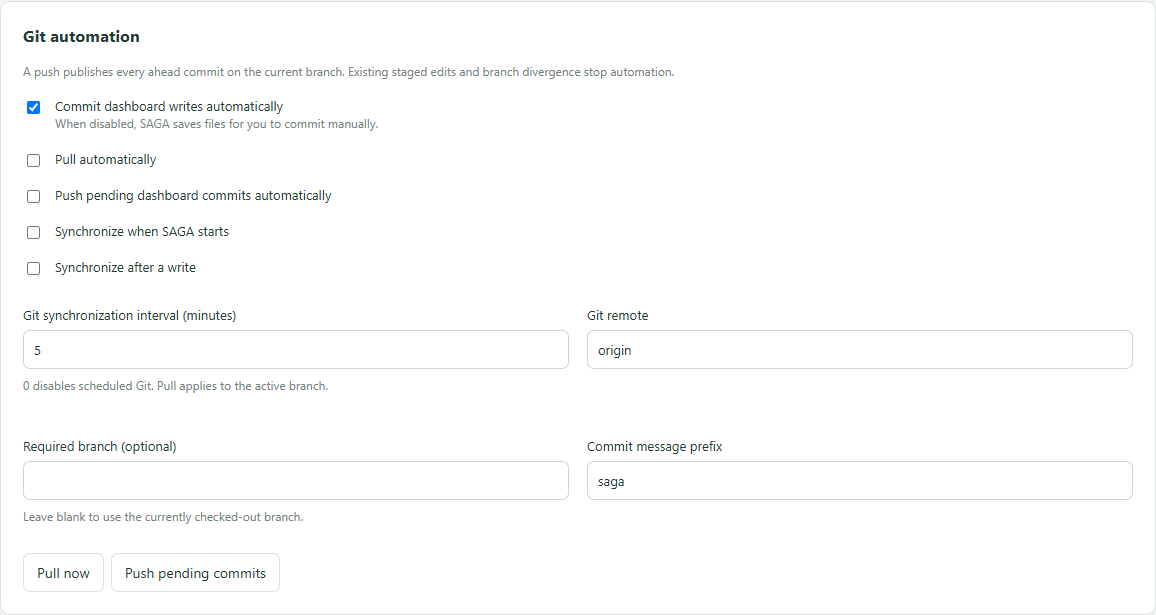
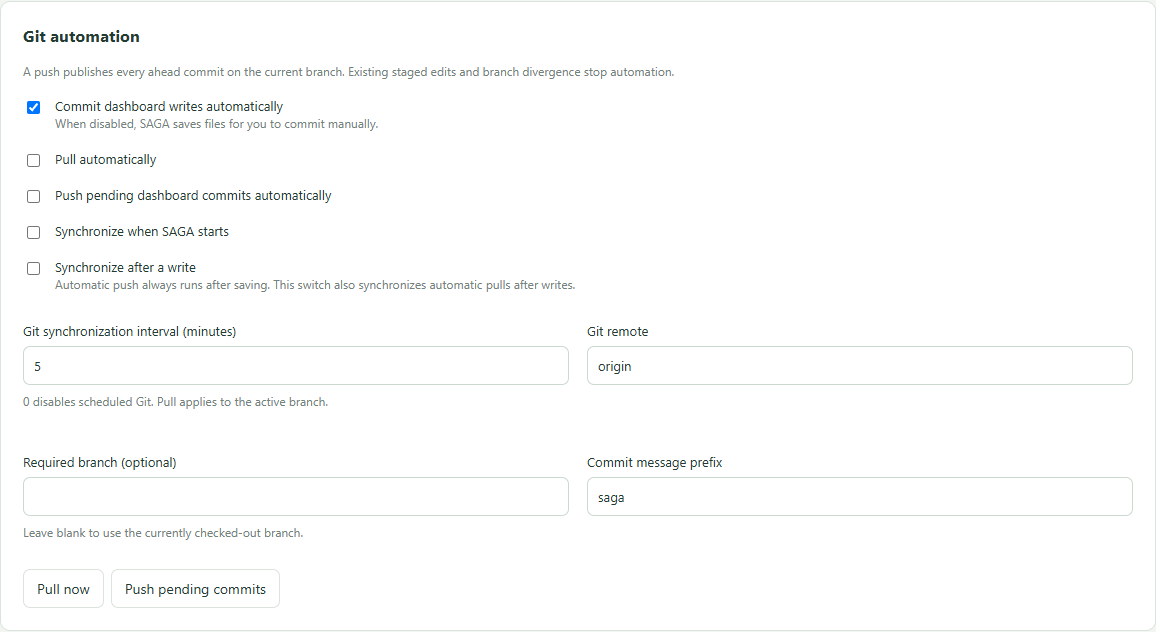
Fix automatic publication after dashboard saves

diff --git a/src/dashboard.html b/src/dashboard.html
@@ -61,7 +61,7 @@ function render(){
 function renderHistory(){if(!historyState){$('feed').innerHTML='<div class="card empty">Loading history…</div>';return;}$('feed').innerHTML=historyState.commits.map(c=>`<section class="card panel"><span class="tag">${date(c.date)} · ${esc(c.commit.slice(0,8))}</span><strong>${esc(c.title)}</strong>${c.files.map(f=>`<p class="hint">${esc(f)}</p><button data-history="${esc(c.commit)}" data-file="${esc(f)}" data-before="true">Before</button> <button data-history="${esc(c.commit)}" data-file="${esc(f)}">After</button>`).join('')}<pre id="snapshot-${esc(c.commit)}" hidden></pre></section>`).join('')||'<div class="card empty">No structured mailbox history yet.</div>';}
 async function refresh(force=false){try{const next=await api('state');const status=next.sync||{message:'Choose a repository'};$('sync').textContent=status.message+(status.last?' · '+new Date(status.last).toLocaleTimeString('en-GB'):'');$('sync').classList.toggle('error',status.state==='error');const key=next.setupRequired?JSON.stringify(next):JSON.stringify([next.branchRefresh,next.branches,next.git,next.publicationHold,next.configVersion,next.messages.map(r=>r.sha256),next.errors]);const changedIdentity=state?.config?.identity!==next.config?.identity,changedContext=state?.workspaceRoot!==next.workspaceRoot||state?.branch!==next.branch;state=next;if(changedIdentity&&next.config){$('kind').value=next.config.defaultKind;$('priority').value=next.config.defaultPriority;pageIndex=0;}if(force||key!==signature){signature=key;render();}if(next.config&&(changedIdentity||changedContext))loadDraft();}catch(e){notice(e.message);}finally{scheduleRefresh();}}
 function scheduleRefresh(){clearTimeout(refreshTimer);if(state?.config?.refreshSeconds>0)refreshTimer=setTimeout(()=>{if(!busy)refresh();else scheduleRefresh();},state.config.refreshSeconds*1000);}
-async function mutate(route,data){if(busy)return false;busy=true;$('send').disabled=true;notice('');try{await api(route,data);historyState=null;return true;}catch(e){notice(e.message);return false;}finally{busy=false;$('send').disabled=false;await refresh(true);}}
+async function mutate(route,data){if(busy)return false;busy=true;$('send').disabled=true;notice('');try{const result=await api(route,data);historyState=null;if(result.sync?.state==='error')notice('Saved locally. Synchronization failed: '+result.sync.message);return true;}catch(e){notice(e.message);return false;}finally{busy=false;$('send').disabled=false;await refresh(true);}}
 function confirmAction(title,text,fn){confirmation=fn;$('confirmTitle').textContent=title;$('confirmText').textContent=text;$('confirmation').showModal();}
 $('cancelConfirm').onclick=()=>{$('confirmation').close();confirmation=null;};$('acceptConfirm').onclick=()=>{$('confirmation').close();const fn=confirmation;confirmation=null;fn?.();};
 $('navigation').onclick=async e=>{const b=e.target.closest('[data-view]');if(!b)return;view=b.dataset.view;pageIndex=0;render();if(view==='history'){try{historyState=await api('history',{});if(view==='history')renderHistory();}catch(e){notice(e.message);}}};
@@ -82,7 +82,7 @@ function saveDraft(){if(state?.config)localStorage.setItem(draftKey(),JSON.strin
 $('task').onclick=()=>{$('message').value+=($('message').value?'\n':'')+'- [ ] ';saveDraft();$('message').focus();};
 function clearReply(){replyTo=null;$('replyHint').textContent='Send from your configured identity.';$('cancelReply').hidden=true;}
 $('cancelReply').onclick=()=>{clearReply();saveDraft();};
-$('send').onclick=async()=>{const draft={text:$('message').value,title:$('subject').value,to:$('recipient').value,kind:$('kind').value,priority:$('priority').value,replyTo};saveDraft();const key=draftKey();localStorage.setItem(key+':last-send',JSON.stringify({...draft,savedAt:new Date().toISOString()}));const f=state.messages.find(r=>r.meta.from===state.config.identity&&r.meta.kind!=='receipt');if(await mutate('message',{to:draft.to,title:draft.title,text:draft.text,kind:draft.kind,priority:draft.priority,reply_to:draft.replyTo,version:f?.fileVersion??state.outboxVersion??null})){if($('message').value===draft.text&&$('subject').value===draft.title){$('message').value='';$('subject').value='';clearReply();localStorage.removeItem(key);}notice(state.config.autoCommit?'Message committed locally. See Your outbox and the Git status for publication.':'Message saved to your outbox. Commit and push it to publish.');}};
+$('send').onclick=async()=>{const draft={text:$('message').value,title:$('subject').value,to:$('recipient').value,kind:$('kind').value,priority:$('priority').value,replyTo};saveDraft();const key=draftKey();localStorage.setItem(key+':last-send',JSON.stringify({...draft,savedAt:new Date().toISOString()}));const f=state.messages.find(r=>r.meta.from===state.config.identity&&r.meta.kind!=='receipt');if(await mutate('message',{to:draft.to,title:draft.title,text:draft.text,kind:draft.kind,priority:draft.priority,reply_to:draft.replyTo,version:f?.fileVersion??state.outboxVersion??null})){if($('message').value===draft.text&&$('subject').value===draft.title){$('message').value='';$('subject').value='';clearReply();localStorage.removeItem(key);}notice(state.config.autoPush?(state.git?.ahead===0?'Message published.':state.sync.state==='error'?'Message committed locally; automatic publication failed: '+state.sync.message:state.sync.message):state.config.autoCommit?'Message committed locally. Automatic push is off.':'Message saved to your outbox. Commit and push it to publish.');}};
 
 $('feed').onclick=async e=>{const b=e.target.closest('button');if(!b)return;
  if(b.dataset.edit){editing=state.messages.find(r=>r.meta.id===b.dataset.edit);$('editBody').value=editing.body;$('editor').showModal();}

diff --git a/src/settings.js b/src/settings.js
@@ -34,7 +34,7 @@ function renderSettings(c) {
     <section class="card panel"><h3>Git automation</h3><p class="hint">A push publishes every ahead commit on the current branch. Existing staged edits and branch divergence stop automation.</p>
       ${settingsToggle('autoCommit','Commit dashboard writes automatically',c.autoCommit,'When disabled, SAGA saves files for you to commit manually.')}
       ${settingsToggle('autoPull','Pull automatically',c.autoPull)}${settingsToggle('autoPush','Push pending dashboard commits automatically',c.autoPush)}
-      ${settingsToggle('syncOnStart','Synchronize when SAGA starts',c.syncOnStart)}${settingsToggle('syncAfterWrite','Synchronize after a write',c.syncAfterWrite)}
+      ${settingsToggle('syncOnStart','Synchronize when SAGA starts',c.syncOnStart)}${settingsToggle('syncAfterWrite','Synchronize after a write',c.syncAfterWrite,'Automatic push always runs after saving. This switch also synchronizes automatic pulls after writes.')}
       <div class="settings-grid">${settingsField('syncMinutes','Git synchronization interval (minutes)',c.syncSeconds/60,'number','0 disables scheduled Git. Pull applies to the active branch.').replace('step="1"','step="any"')}${settingsField('gitRemote','Git remote',c.gitRemote)}${settingsField('expectedBranch','Required branch (optional)',c.expectedBranch,'text','Leave blank to use the currently checked-out branch.')}${settingsField('commitPrefix','Commit message prefix',c.commitPrefix)}</div>
       <div class="actions"><button id="pullNow" type="button">Pull now</button><button id="pushNow" type="button">Push pending commits</button></div>
     </section>

diff --git a/README.md b/README.md
@@ -185,7 +185,7 @@ Workspace settings are stored in `exchange.config.json` in the managed repositor
 | Branch discovery | Enabled | Discovers local and remote Git branches without a list |
 | Automatic branch fetch | Disabled | Independently refreshes all remote branches |
 | Branch fetch interval | 5 minutes | Configurable from 1 to 1440 minutes |
-| Sync on startup / after writes | Disabled | Explicit switches |
+| Sync on startup / after writes | Disabled | After-write switch controls pull synchronization; automatic push always follows a save |
 | Remote / required branch | `origin` / unrestricted | Optional branch guard |
 | Cleanup | Review required | Automatic or disabled are also available |
 | Receipt scan interval | 300 seconds | Runs only in automatic cleanup mode |
@@ -200,7 +200,7 @@ Identity, participant IDs/labels/aliases, mailbox directory, and monitoring visi
 
 **Refresh** only rereads files. **Sync now** follows your configured pull/push switches. Settings also offers explicit **Pull now** and **Push pending commits** actions. Automatic cleanup requires automatic commits so its history is retained. With manual commits, SAGA saves edits to disk and leaves committing to you.
 
-Git operations stop for staged work, dirty files, mismatched branches, or divergence. SAGA does not stash, reset, merge, or rebase automatically. A push publishes all ahead commits on that branch. Publication holds in local Git config (`saga.publicationHold`, with compatibility for `dashboard.publicationHold`) remain effective independently of UI settings. Pending publication is tied to its originating branch.
+Git operations stop for staged work, dirty files, mismatched branches, or divergence. SAGA does not stash, reset, merge, or rebase automatically. Automatic push publishes after each dashboard save, including the configuration commit that enables it, regardless of the after-write pull switch. The save response waits for that publication attempt and reports any failure without losing the saved message. A push publishes all ahead commits on that branch. Publication holds in local Git config (`saga.publicationHold`, with compatibility for `dashboard.publicationHold`) remain effective independently of UI settings. Pending publication is tied to its originating branch.
 
 ## Agent skill
 
